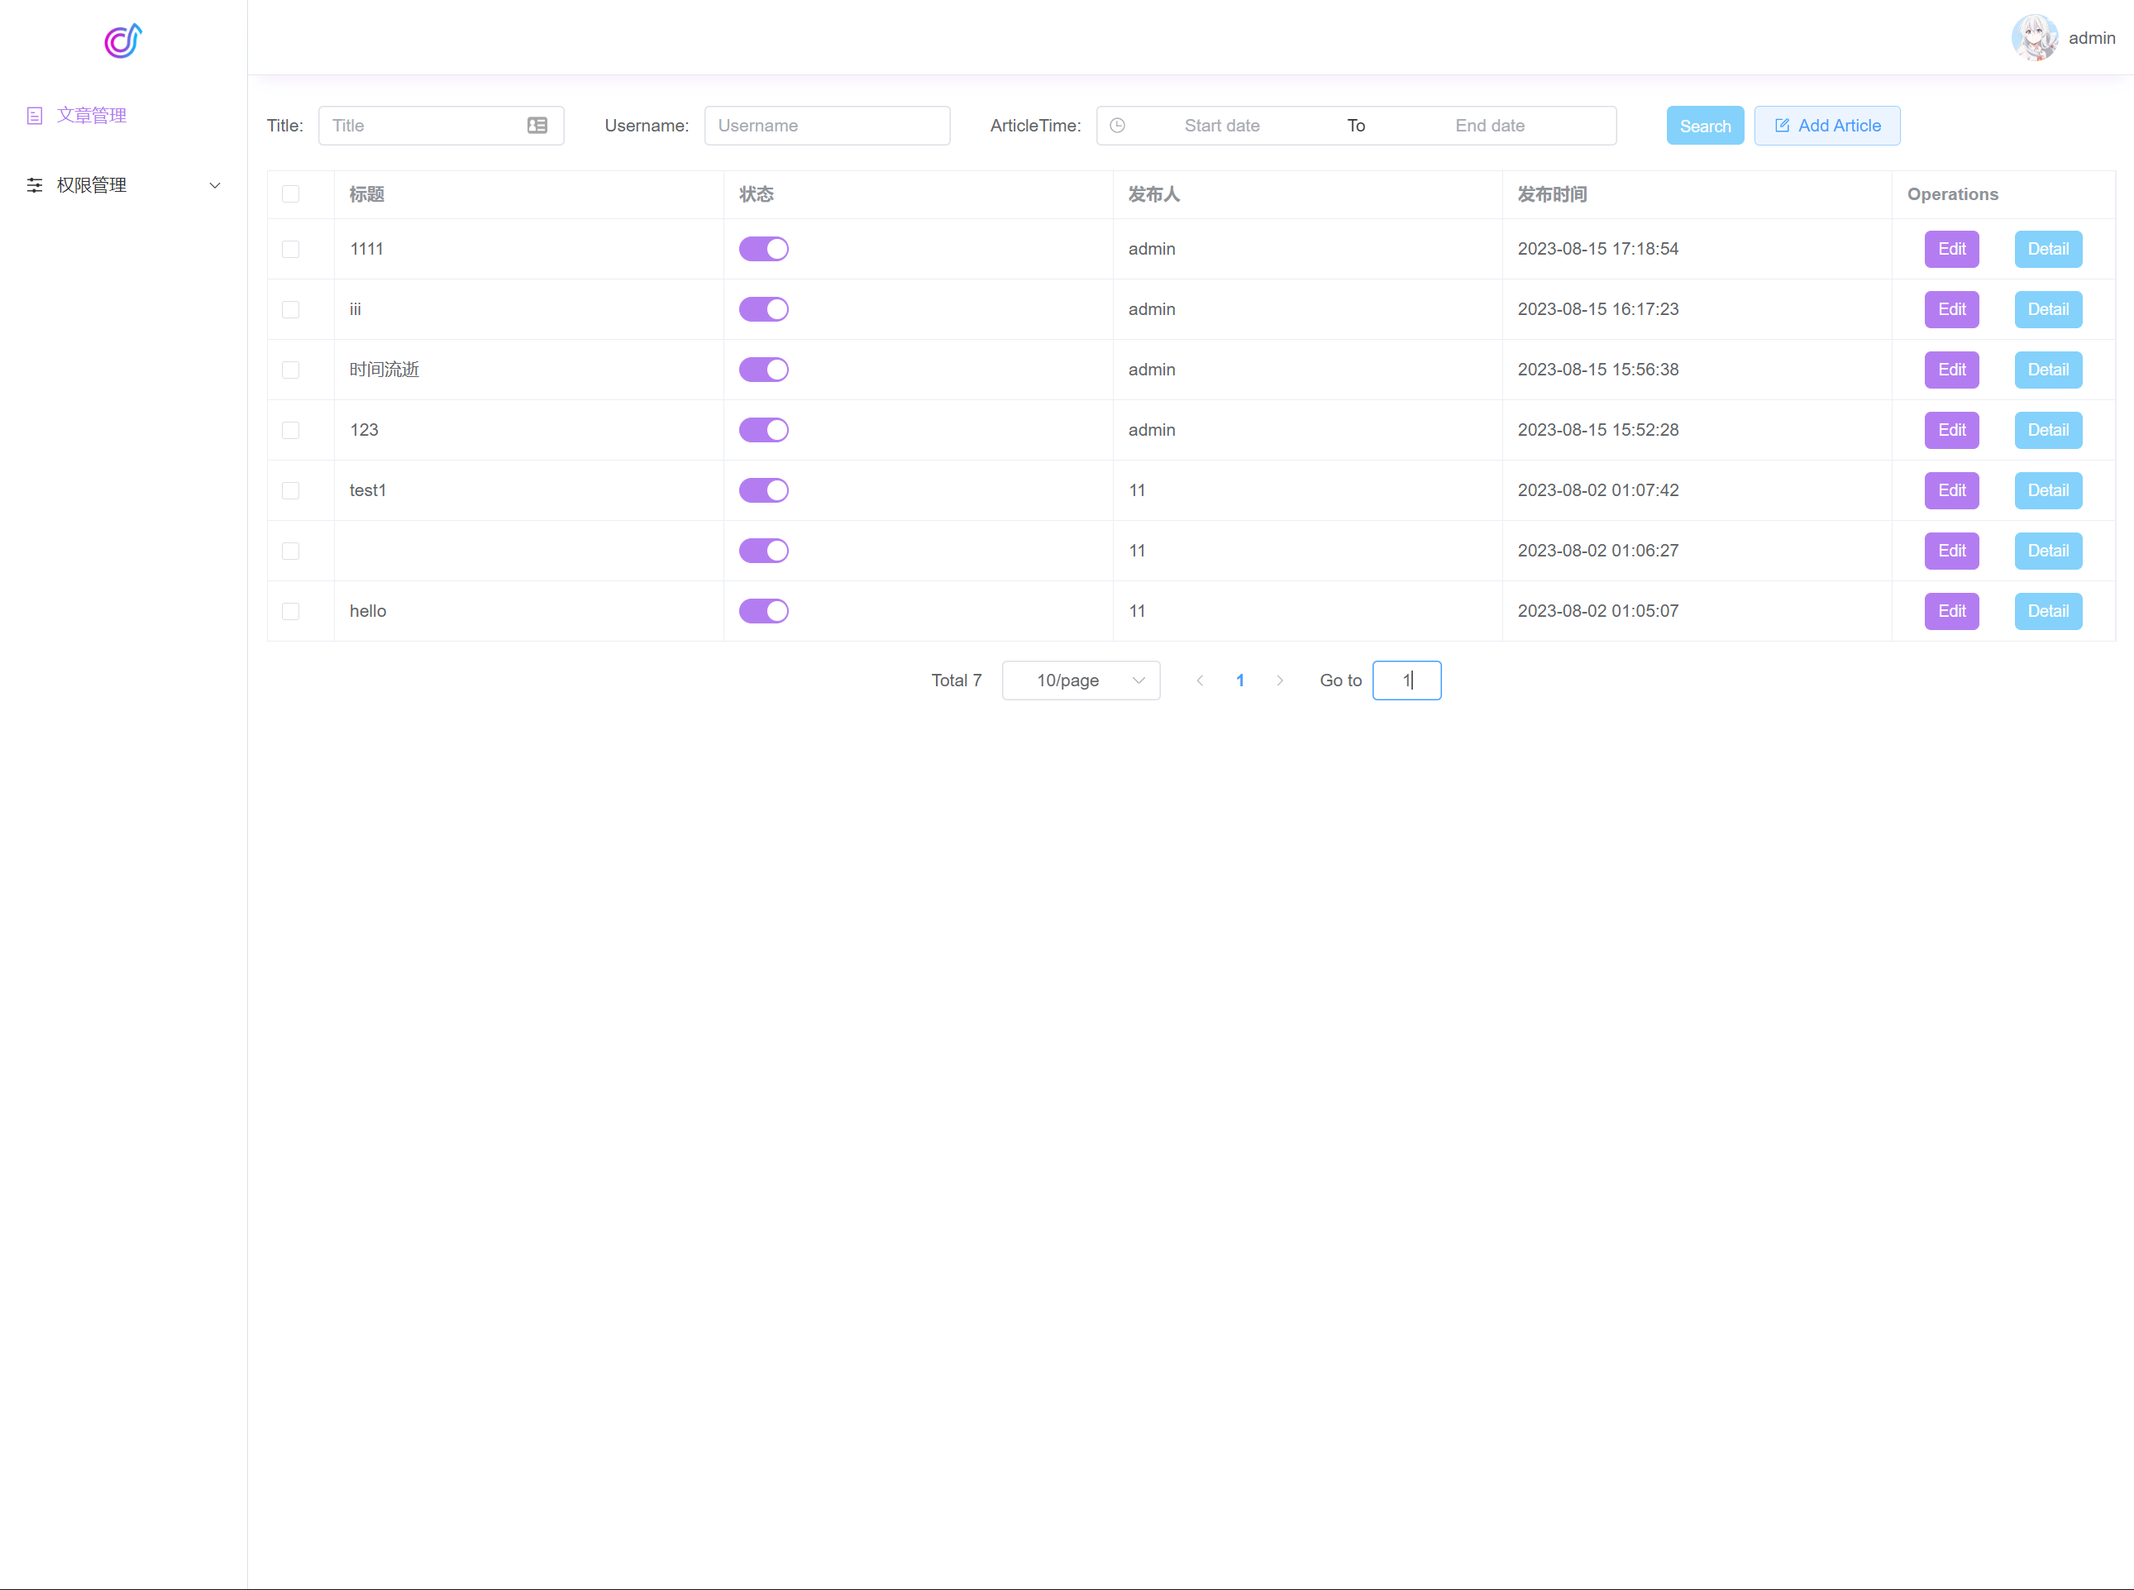
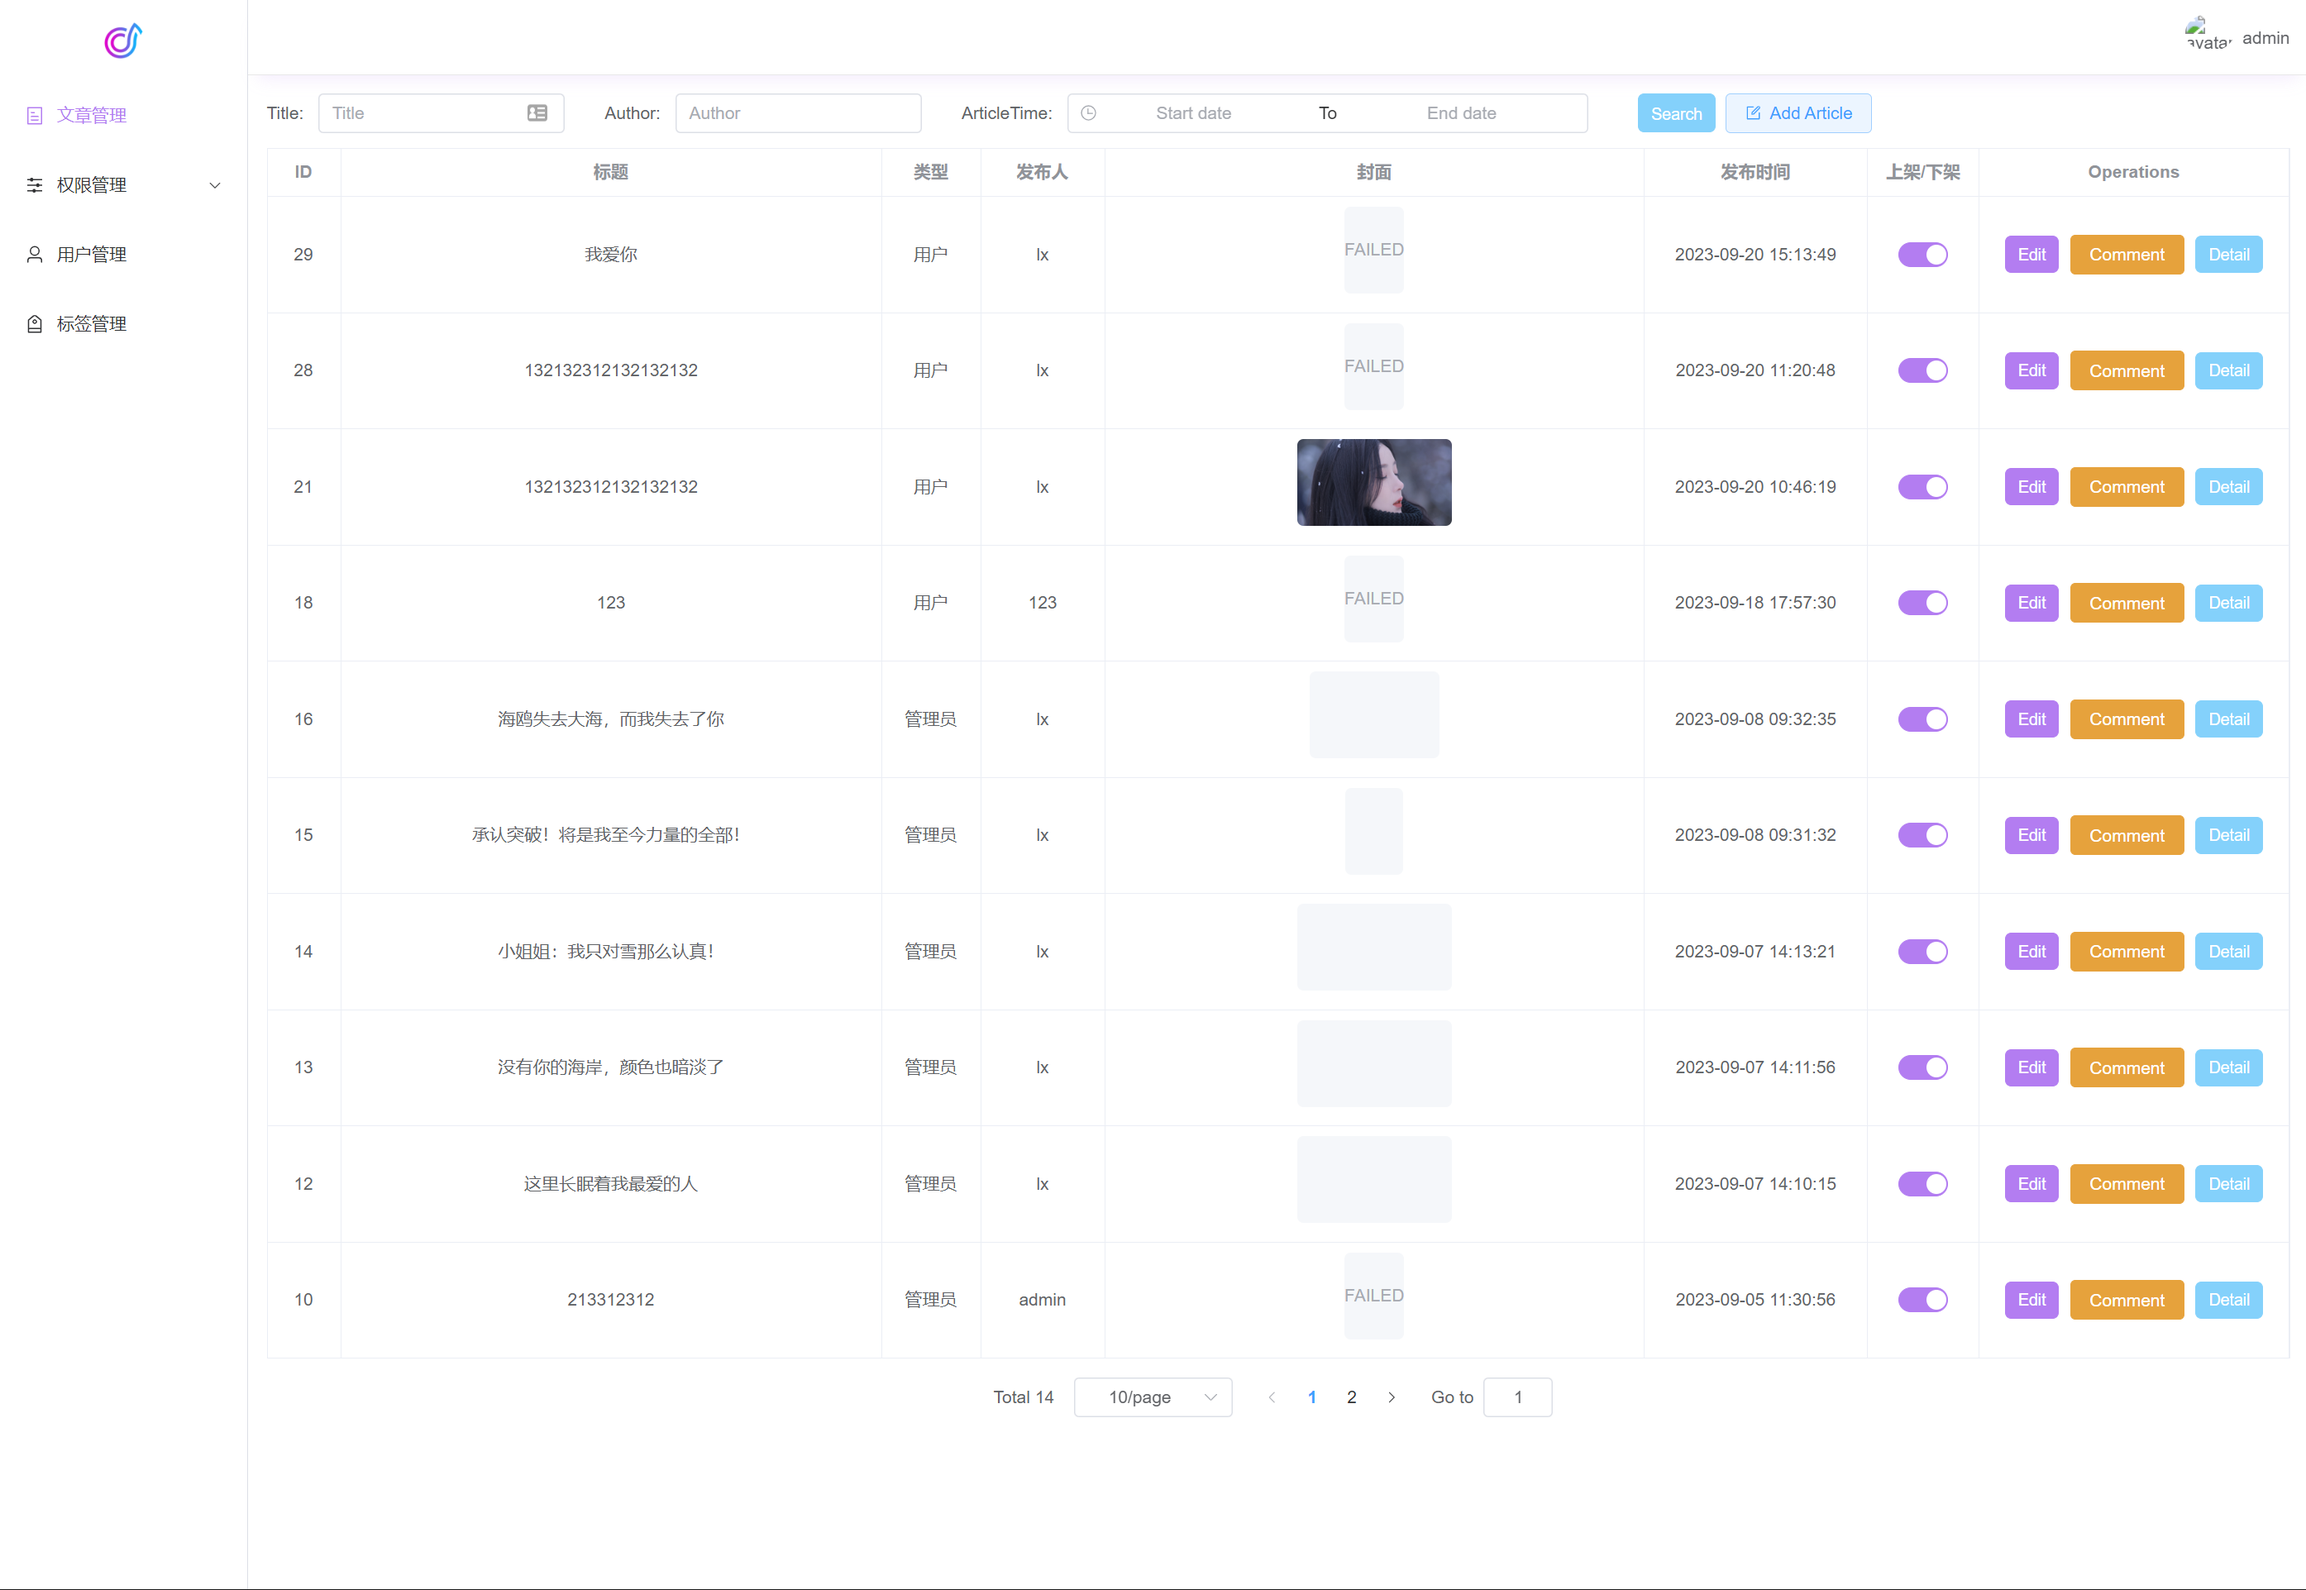
完善描述

diff --git a/README.md b/README.md
@@ -2,7 +2,7 @@
 
 ## 基于Vite搭建的Vue3项目
 
-简单的权限管理后台，包含登录、用户管理、角色管理、权限管理（包含菜单管理）、标签管理等功能。
+简单的权限管理后台，包含登录、用户管理、角色管理、权限管理（包含菜单管理）、文章管理和文章评论、标签管理等功能。
 
 <ul>
     <li>技术栈：Vue + Pinia + Vue-Router + Axios</li>
@@ -30,8 +30,17 @@ npm run dev 或者 yarn dev
 登录
 ![登录](gitImg/Snipaste_2023-08-28_10-18-42.png)
 
+用户管理
 ![用户管理](gitImg/Snipaste_2023-08-28_10-17-58.png)
 
+权限管理
+![角色管理](gitImg/Snipaste_2023-08-28_10-18-15.png)
+
+文章管理
 ![文章管理](gitImg/Snipaste_2023-08-28_10-17-33.png)
 
-![角色管理](gitImg/Snipaste_2023-08-28_10-18-15.png)
+文章评论
+![文章评论](gitImg/Snipaste_2023-09-27_14-47-12.png)
+
+标签管理
+![标签管理](gitImg/Snipaste_2023-09-27_14-47-30.png)
